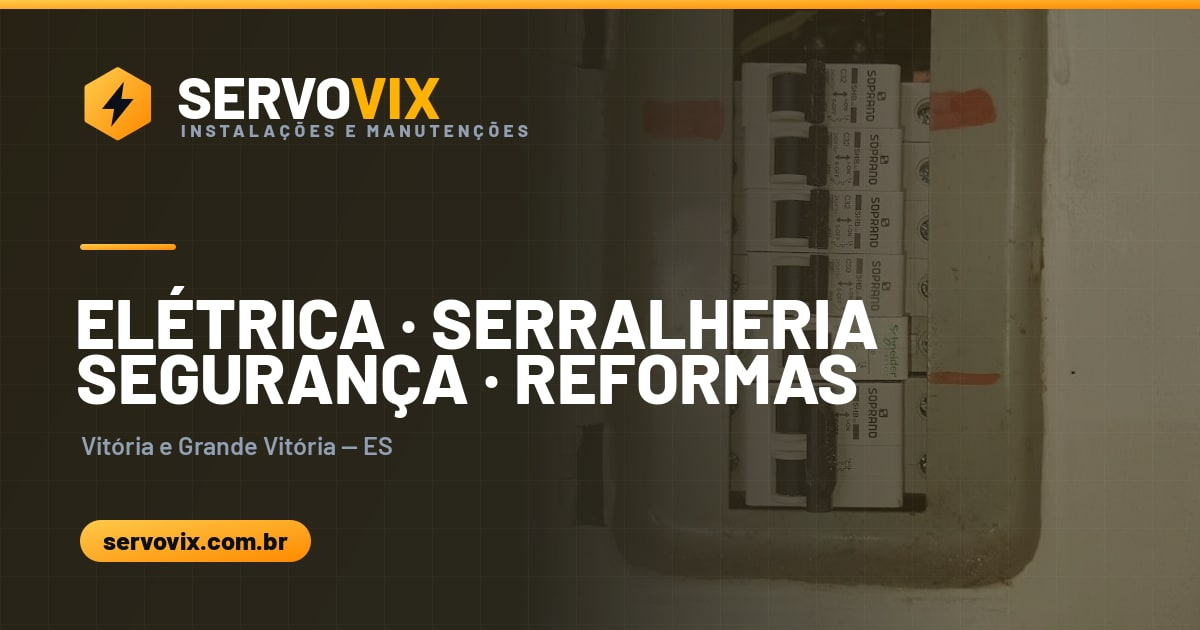
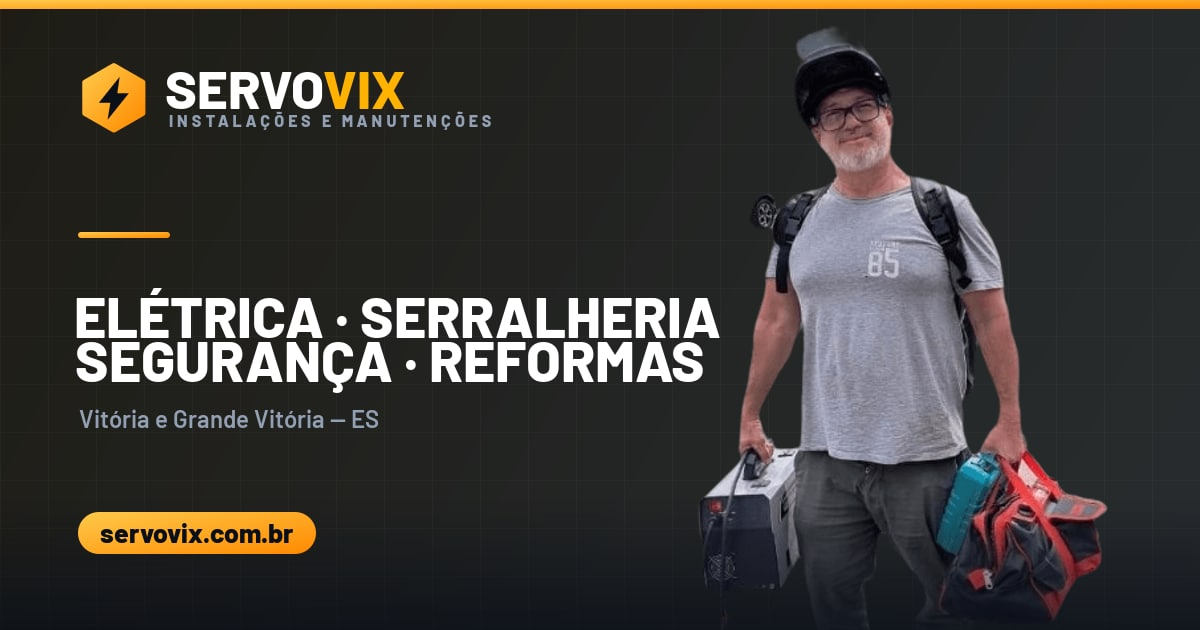
Torna o PWA funcional, alinha o topo no mobile e usa o profissional na imagem social
PWA
O site declarava um manifesto e aceitava instalação, mas não havia service
worker: instalar não entregava nada além de um atalho, e sem rede a aplicação
abria em branco.

- sw.js: guarda o esqueleto na instalação e separa as estratégias — rede
  primeiro para HTML, para nunca servir conteúdo velho havendo internet, e
  cache primeiro para CSS, JS, imagens e fontes. Sem conexão cai para a página
  salva ou para offline.html. Caches versionados, limpos na ativação.
- offline.html: página de fallback que mantém o telefone à mão, já que ligar
  funciona sem internet.
- Ícones maskable 192 e 512. Sem eles o Android recorta o ícone no formato
  adaptativo; o raio foi reduzido a 47% do quadro para caber na zona segura.
- Manifesto com id, display_override, categorias e três atalhos.

Topo no mobile
O span da localização tinha style="display:inline-flex" inline, que vencia o
.hide-sm da media query. A barra quebrava em duas linhas no celular. Removido o
inline; no mobile o texto encolhe de "Vitória e Grande Vitória" para "Grande
Vitória" em vez de sumir, com nowrap travando a linha única. Conferido em 375,
360 e 329 px: uma linha, 38 px, sem transbordo.

Imagem social
og-image.jpg passa a trazer o profissional recortado à direita, com o mesmo
tratamento do hero. Foto real de quem executa o serviço é sinal de confiança
mais forte que foto de equipamento.

diff --git a/sw.js b/sw.js
@@ -1,0 +1,117 @@
+/* ServoVIX — service worker
+   Objetivo: o site abrir mesmo sem conexão e carregar instantâneo em visitas
+   repetidas, sem nunca servir HTML velho quando há rede. */
+
+const VERSAO = 'servovix-v1';
+const CACHE_SHELL = `${VERSAO}-shell`;
+const CACHE_ATIVOS = `${VERSAO}-ativos`;
+const CACHE_FONTES = `${VERSAO}-fontes`;
+
+/* Esqueleto do site: vai para o cache já na instalação. */
+const SHELL = [
+  '/',
+  '/index.html',
+  '/eletrica.html',
+  '/serralheria.html',
+  '/seguranca.html',
+  '/reformas.html',
+  '/offline.html',
+  '/404.html',
+  '/assets/css/servovix.css',
+  '/assets/js/servovix.js',
+  '/assets/brand/servovix-logo.svg',
+  '/assets/brand/servovix-logo-compact.svg',
+  '/assets/brand/favicon.svg',
+  '/assets/brand/icon-192.png',
+  '/assets/brand/icon-512.png',
+  '/img/profissional.webp',
+  '/site.webmanifest',
+];
+
+const ehFonte = (url) =>
+  url.origin === 'https://fonts.googleapis.com' || url.origin === 'https://fonts.gstatic.com';
+
+/* ---------- instalação ---------- */
+self.addEventListener('install', (evento) => {
+  evento.waitUntil(
+    caches.open(CACHE_SHELL)
+      // addAll falha inteiro se um item falhar; adiciona um a um para ser tolerante
+      .then((cache) => Promise.allSettled(SHELL.map((u) => cache.add(u))))
+      .then(() => self.skipWaiting())
+  );
+});
+
+/* ---------- ativação: limpa versões antigas ---------- */
+self.addEventListener('activate', (evento) => {
+  evento.waitUntil(
+    caches.keys()
+      .then((nomes) => Promise.all(
+        nomes.filter((n) => !n.startsWith(VERSAO)).map((n) => caches.delete(n))
+      ))
+      .then(() => self.clients.claim())
+  );
+});
+
+/* ---------- estratégias ---------- */
+
+// HTML: rede primeiro (conteúdo sempre fresco), cache como rede de segurança.
+async function redePrimeiro(req) {
+  const cache = await caches.open(CACHE_SHELL);
+  try {
+    const resposta = await fetch(req);
+    if (resposta && resposta.ok) cache.put(req, resposta.clone());
+    return resposta;
+  } catch (e) {
+    // ignoreSearch: start_url e atalhos levam ?fonte=pwa e nao bateriam com o '/' salvo
+    const guardado = await cache.match(req, { ignoreSearch: true }) || await cache.match('/index.html');
+    return guardado || cache.match('/offline.html');
+  }
+}
+
+// Estáticos: cache primeiro, revalidando em segundo plano.
+async function cachePrimeiro(req, nomeCache) {
+  const cache = await caches.open(nomeCache);
+  const guardado = await cache.match(req);
+  const rede = fetch(req)
+    .then((resposta) => {
+      if (resposta && (resposta.ok || resposta.type === 'opaque')) cache.put(req, resposta.clone());
+      return resposta;
+    })
+    .catch(() => null);
+  return guardado || (await rede) || Response.error();
+}
+
+self.addEventListener('fetch', (evento) => {
+  const req = evento.request;
+  if (req.method !== 'GET') return;
+
+  const url = new URL(req.url);
+
+  // Navegação (abrir uma página)
+  if (req.mode === 'navigate') {
+    evento.respondWith(redePrimeiro(req));
+    return;
+  }
+
+  // Fontes do Google
+  if (ehFonte(url)) {
+    evento.respondWith(cachePrimeiro(req, CACHE_FONTES));
+    return;
+  }
+
+  // Demais origens ficam de fora (ex.: wa.me)
+  if (url.origin !== self.location.origin) return;
+
+  // Estáticos do próprio site
+  if (/\.(css|js|svg|png|jpg|jpeg|webp|ico|woff2?)$/i.test(url.pathname)) {
+    evento.respondWith(cachePrimeiro(req, CACHE_ATIVOS));
+    return;
+  }
+
+  evento.respondWith(redePrimeiro(req));
+});
+
+/* Permite forçar a troca de versão a partir da página. */
+self.addEventListener('message', (evento) => {
+  if (evento.data === 'pular-espera') self.skipWaiting();
+});

diff --git a/offline.html b/offline.html
@@ -1,0 +1,53 @@
+<!DOCTYPE html>
+<html lang="pt-BR">
+<head>
+<meta charset="utf-8">
+<meta name="viewport" content="width=device-width, initial-scale=1">
+<title>Sem conexão | ServoVIX</title>
+<meta name="robots" content="noindex,nofollow">
+<meta name="theme-color" content="#0B0F17">
+<link rel="icon" href="/favicon.ico" sizes="any">
+<link rel="icon" type="image/svg+xml" href="/assets/brand/favicon.svg">
+<link rel="stylesheet" href="/assets/css/servovix.css">
+<style>
+  .off{min-height:100vh;display:grid;place-items:center;text-align:center}
+  .off .wrap{max-width:620px}
+  .off .ico{width:84px;height:84px;margin:0 auto 26px;border-radius:24px;display:grid;place-items:center;
+    background:rgba(255,179,0,.12);border:1px solid rgba(255,179,0,.34)}
+  .off .ico svg{width:40px;height:40px;color:var(--amber)}
+  .off .btn-row{justify-content:center;margin-top:30px}
+  .off .aviso-orcamento{margin-inline:auto}
+</style>
+</head>
+<body>
+<section class="off sec--dark mesh">
+  <div class="wrap">
+    <img src="/assets/brand/servovix-logo.svg" alt="ServoVIX — Instalações e Manutenções"
+         width="292" height="84" style="height:74px;width:auto;margin:0 auto 30px">
+
+    <div class="ico">
+      <svg viewBox="0 0 24 24" fill="none" stroke="currentColor" stroke-width="2" stroke-linecap="round" stroke-linejoin="round" aria-hidden="true">
+        <path d="M2 2l20 20M8.5 16.4a5 5 0 0 1 7 0M5 12.9a10 10 0 0 1 3.2-2.1M19 12.9a10 10 0 0 0-5.9-2.85M1.4 9.4a15 15 0 0 1 4.2-2.7M22.6 9.4A15 15 0 0 0 12 5.5"/>
+        <circle cx="12" cy="20" r=".6" fill="currentColor"/>
+      </svg>
+    </div>
+
+    <h1 class="h2">Você está<br>sem conexão</h1>
+    <p class="lead" style="margin:18px auto 0">Esta página ainda não tinha sido aberta neste aparelho, por isso
+      não está salva para uso offline. Assim que a internet voltar, ela carrega normalmente.</p>
+
+    <div class="btn-row">
+      <button class="btn btn--primary" onclick="location.reload()">Tentar de novo</button>
+      <a class="btn btn--ghost" href="/">Ir para o início</a>
+    </div>
+
+    <p class="aviso-orcamento" style="margin-top:32px">
+      <svg viewBox="0 0 24 24" fill="none" stroke="currentColor" stroke-width="2" stroke-linecap="round" stroke-linejoin="round" aria-hidden="true">
+        <path d="M22 16.92v3a2 2 0 0 1-2.18 2 19.8 19.8 0 0 1-8.63-3.07 19.5 19.5 0 0 1-6-6A19.8 19.8 0 0 1 2.12 4.2 2 2 0 0 1 4.11 2h3a2 2 0 0 1 2 1.72c.13.96.36 1.9.7 2.81a2 2 0 0 1-.45 2.11L8.09 9.91a16 16 0 0 0 6 6l1.27-1.27a2 2 0 0 1 2.11-.45c.91.34 1.85.57 2.81.7A2 2 0 0 1 22 16.92"/>
+      </svg>
+      <span><b>Precisa falar agora?</b> Ligue para (27) 99843-2920 — a chamada funciona mesmo sem internet.</span>
+    </p>
+  </div>
+</section>
+</body>
+</html>

diff --git a/assets/css/servovix.css b/assets/css/servovix.css
@@ -549,3 +549,25 @@ a.link-amber{color:var(--amber-ink);font-weight:600}
 .contact-list > a,.contact-list > span{display:flex;gap:14px;align-items:flex-start}
 .contact-list > a > span,.contact-list > span > span{display:block;min-width:0;background:none;border:0;padding:0;border-radius:0}
 .contact-list small{display:block;margin-top:2px}
+
+/* ==========================================================================
+   26. Barra superior: uma unica linha no mobile
+   O span da localizacao tinha display inline, que vencia o .hide-sm da media
+   query; a barra quebrava em duas linhas. Agora o texto encolhe em vez de
+   sumir, e a linha e travada com nowrap.
+   ========================================================================== */
+.topbar-local{display:inline-flex;align-items:center;gap:7px}
+
+@media (max-width:720px){
+  .topbar{font-size:12.6px}
+  .topbar .wrap{flex-wrap:nowrap;gap:10px;min-height:38px}
+  .topbar-l{flex-wrap:nowrap;gap:12px;width:100%;justify-content:space-between}
+  .topbar a,.topbar-local{white-space:nowrap}
+  .so-lg{display:none}          /* "Vitória e " sai; fica "Grande Vitória — ES" */
+}
+@media (max-width:370px){
+  .topbar{font-size:11.6px}
+  .topbar svg{width:13px;height:13px}
+  .topbar .wrap{padding-inline:14px;gap:8px}
+  .topbar-l{gap:8px}
+}

diff --git a/assets/js/servovix.js b/assets/js/servovix.js
@@ -138,3 +138,24 @@
     window.open(url, "_blank", "noopener");
   });
 })();
+
+/* ServoVIX - registro do service worker (site utilizavel offline) */
+(function () {
+  "use strict";
+  if (!("serviceWorker" in navigator)) return;
+  window.addEventListener("load", function () {
+    navigator.serviceWorker.register("/sw.js").then(function (reg) {
+      // se uma versao nova ficar esperando, assume assim que possivel
+      if (reg.waiting) reg.waiting.postMessage("pular-espera");
+      reg.addEventListener("updatefound", function () {
+        var novo = reg.installing;
+        if (!novo) return;
+        novo.addEventListener("statechange", function () {
+          if (novo.state === "installed" && navigator.serviceWorker.controller) {
+            novo.postMessage("pular-espera");
+          }
+        });
+      });
+    }).catch(function () { /* sem service worker o site segue normal */ });
+  });
+})();

diff --git a/eletrica.html b/eletrica.html
@@ -246,8 +246,8 @@
     <div class="topbar-l">
       <a href="tel:+5527998432920">
         <svg aria-hidden="true"><use href="#i-phone"/></svg>(27) 99843-2920</a>
-      <span class="hide-sm" style="display:inline-flex;align-items:center;gap:7px">
-        <svg aria-hidden="true" style="width:15px;height:15px;color:var(--amber)"><use href="#i-pin"/></svg>Vitória e Grande Vitória — ES</span>
+      <span class="topbar-local">
+        <svg aria-hidden="true"><use href="#i-pin"/></svg><span class="so-lg">Vitória e </span>Grande Vitória — ES</span>
     </div>
     <div class="topbar-r hide-sm"><span>Orçamento gratuito no bairro de atuação</span></div>
   </div>

diff --git a/index.html b/index.html
@@ -148,8 +148,8 @@
     <div class="topbar-l">
       <a href="tel:+5527998432920">
         <svg aria-hidden="true"><use href="#i-phone"/></svg>(27) 99843-2920</a>
-      <span class="hide-sm" style="display:inline-flex;align-items:center;gap:7px">
-        <svg aria-hidden="true" style="width:15px;height:15px;color:var(--amber)"><use href="#i-pin"/></svg>Vitória e Grande Vitória — ES</span>
+      <span class="topbar-local">
+        <svg aria-hidden="true"><use href="#i-pin"/></svg><span class="so-lg">Vitória e </span>Grande Vitória — ES</span>
     </div>
     <div class="topbar-r hide-sm"><span>Orçamento gratuito no bairro de atuação</span></div>
   </div>

diff --git a/reformas.html b/reformas.html
@@ -225,8 +225,8 @@
     <div class="topbar-l">
       <a href="tel:+5527998432920">
         <svg aria-hidden="true"><use href="#i-phone"/></svg>(27) 99843-2920</a>
-      <span class="hide-sm" style="display:inline-flex;align-items:center;gap:7px">
-        <svg aria-hidden="true" style="width:15px;height:15px;color:var(--amber)"><use href="#i-pin"/></svg>Vitória e Grande Vitória — ES</span>
+      <span class="topbar-local">
+        <svg aria-hidden="true"><use href="#i-pin"/></svg><span class="so-lg">Vitória e </span>Grande Vitória — ES</span>
     </div>
     <div class="topbar-r hide-sm"><span>Orçamento gratuito no bairro de atuação</span></div>
   </div>

diff --git a/seguranca.html b/seguranca.html
@@ -232,8 +232,8 @@
     <div class="topbar-l">
       <a href="tel:+5527998432920">
         <svg aria-hidden="true"><use href="#i-phone"/></svg>(27) 99843-2920</a>
-      <span class="hide-sm" style="display:inline-flex;align-items:center;gap:7px">
-        <svg aria-hidden="true" style="width:15px;height:15px;color:var(--amber)"><use href="#i-pin"/></svg>Vitória e Grande Vitória — ES</span>
+      <span class="topbar-local">
+        <svg aria-hidden="true"><use href="#i-pin"/></svg><span class="so-lg">Vitória e </span>Grande Vitória — ES</span>
     </div>
     <div class="topbar-r hide-sm"><span>Orçamento gratuito no bairro de atuação</span></div>
   </div>

diff --git a/serralheria.html b/serralheria.html
@@ -232,8 +232,8 @@
     <div class="topbar-l">
       <a href="tel:+5527998432920">
         <svg aria-hidden="true"><use href="#i-phone"/></svg>(27) 99843-2920</a>
-      <span class="hide-sm" style="display:inline-flex;align-items:center;gap:7px">
-        <svg aria-hidden="true" style="width:15px;height:15px;color:var(--amber)"><use href="#i-pin"/></svg>Vitória e Grande Vitória — ES</span>
+      <span class="topbar-local">
+        <svg aria-hidden="true"><use href="#i-pin"/></svg><span class="so-lg">Vitória e </span>Grande Vitória — ES</span>
     </div>
     <div class="topbar-r hide-sm"><span>Orçamento gratuito no bairro de atuação</span></div>
   </div>

diff --git a/README.md b/README.md
@@ -18,6 +18,8 @@ elétrica, serralheria, segurança eletrônica e reformas em Vitória e Grande V
 ├── seguranca.html          Serviço: segurança eletrônica
 ├── reformas.html           Serviço: reformas e acabamentos
 ├── 404.html                Página de erro (servida pelo GitHub Pages)
+├── offline.html            Página exibida quando não há conexão
+├── sw.js                   Service worker (cache e uso offline)
 │
 ├── assets/
 │   ├── css/servovix.css    Design system completo (sem framework)
@@ -51,7 +53,8 @@ elétrica, serralheria, segurança eletrônica e reformas em Vitória e Grande V
 | Imagens | `.webp` com fallback `.jpg`, `loading="lazy"`, `width`/`height` | Reduz peso e evita deslocamento de layout (CLS) |
 | Fontes | Google Fonts com `preconnect` + `display=swap` | Barlow Condensed (títulos) e Inter (texto) |
 | Formulário | Monta a mensagem e abre o WhatsApp | Site estático não tem backend; nenhum dado é armazenado |
-| JavaScript | Vanilla, sem dependências | ~4 KB, sem build |
+| JavaScript | Vanilla, sem dependências | ~5 KB, sem build |
+| PWA | Service worker próprio, sem biblioteca | HTML com rede primeiro (nunca serve conteúdo velho), estáticos com cache primeiro |
 
 ## Acessibilidade e SEO
 
@@ -61,6 +64,28 @@ elétrica, serralheria, segurança eletrônica e reformas em Vitória e Grande V
 - Open Graph e Twitter Card com imagem própria.
 - Dados estruturados JSON-LD: `LocalBusiness`/`Electrician`, `WebSite`, `Service`,
   `BreadcrumbList` e `FAQPage`.
+
+---
+
+## PWA (aplicativo instalável)
+
+O site pode ser instalado como aplicativo no celular e continua abrindo sem conexão.
+
+- `site.webmanifest` — nome, ícones (incluindo dois `maskable`, que o Android exige
+  para o ícone adaptativo não sair cortado), cor de tema e três atalhos de acesso rápido.
+- `sw.js` — service worker. Guarda o esqueleto do site na instalação e usa duas
+  estratégias: **rede primeiro** para HTML, de modo que o conteúdo nunca fique velho
+  quando há internet, e **cache primeiro** para CSS, JS, imagens e fontes, o que dá
+  carregamento instantâneo em visitas repetidas. Sem conexão, cai para a página já
+  salva ou para `offline.html`.
+- O registro do service worker fica em `assets/js/servovix.js`.
+
+> **Ao publicar mudanças, incremente `VERSAO` no topo do `sw.js`**
+> (`servovix-v1` → `servovix-v2`). É isso que descarta os caches antigos na ativação.
+> Sem incrementar, quem já visitou o site pode continuar vendo CSS ou imagens antigos.
+
+Service worker só funciona em HTTPS ou em `localhost`. Em produção o GitHub Pages
+já serve HTTPS no domínio próprio.
 
 ---
 
